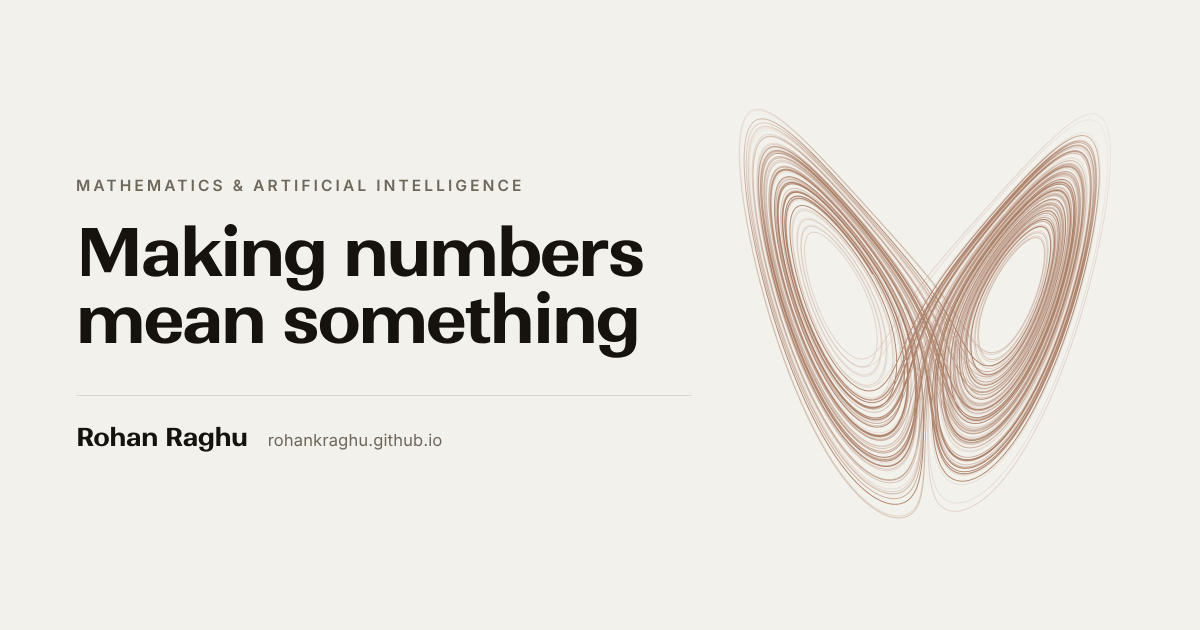
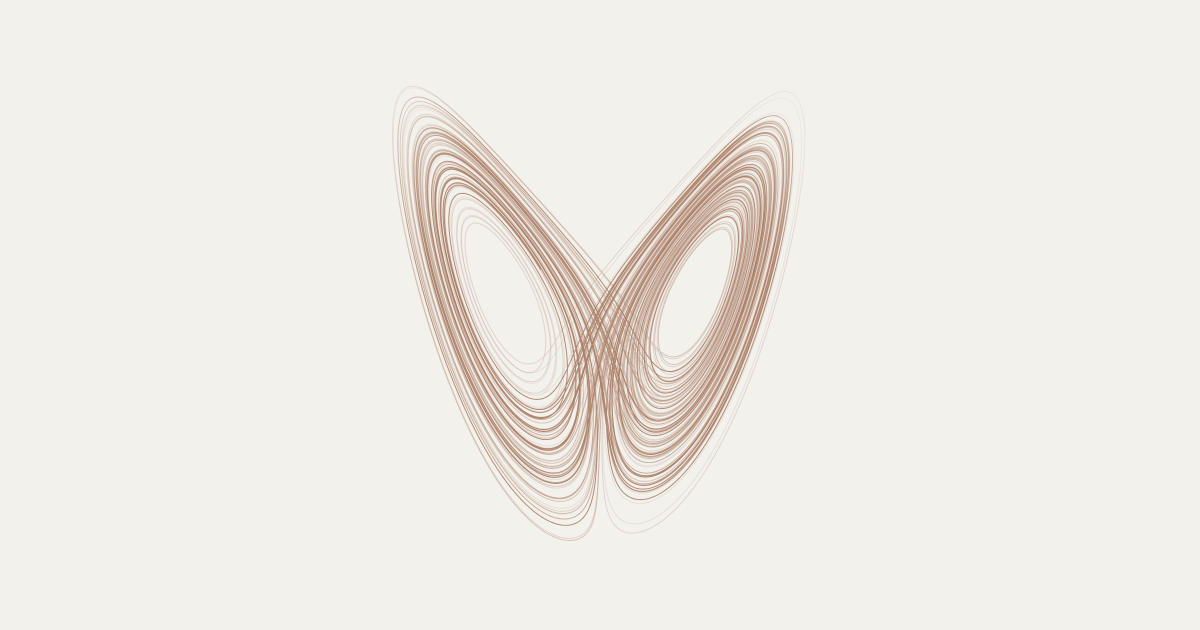
Make the home share card just the Lorenz attractor

Changed region(s): [[0.0617, 0.1508, 0.925, 0.8444], [0.0617, 0.6635, 0.37, 0.7238]]

diff --git a/assets/og-src/home.html b/assets/og-src/home.html
@@ -5,37 +5,15 @@
 <style>
 *{margin:0;padding:0;box-sizing:border-box}
 html,body{width:1200px;height:630px}
-body{
-  background:#F3F1EC;color:#16130F;overflow:hidden;
-  font-family:Inter,Helvetica,Arial,sans-serif;
-  display:grid;grid-template-columns:1fr 396px;align-items:center;
-  gap:36px;padding:0 76px;
-}
-.eyebrow{font-size:15.5px;font-weight:600;letter-spacing:.2em;text-transform:uppercase;color:#6E675C}
-h1{
-  font-family:"Ranade","Helvetica Neue",Helvetica,Arial,sans-serif;font-weight:700;font-size:66px;line-height:1.02;white-space:nowrap;
-  letter-spacing:-.035em;margin-top:24px;
-}
-h1 span{color:#8A4B2A}
-.foot{
-  display:flex;align-items:baseline;gap:20px;
-  margin-top:42px;padding-top:24px;border-top:1px solid #DCD6CB;
-}
-.name{font-family:"Ranade","Helvetica Neue",Helvetica,Arial,sans-serif;font-weight:700;font-size:25px;letter-spacing:-.02em}
-.url{font-size:16.5px;color:#6E675C;letter-spacing:.01em}
-.art{position:relative;height:520px}
+body{background:#F3F1EC;overflow:hidden;display:grid;place-items:center}
+.art{position:relative;width:440px;height:578px}
 canvas{
   position:absolute;inset:0;width:100%;height:100%;opacity:.7;
   -webkit-mask-image:radial-gradient(ellipse 70% 72% at 50% 50%,#000 58%,transparent 100%);
           mask-image:radial-gradient(ellipse 70% 72% at 50% 50%,#000 58%,transparent 100%);
 }
 </style></head><body>
-<div>
-  <div class="eyebrow">Mathematics &amp; artificial intelligence</div>
-  <h1>Making numbers<br>mean something</h1>
-  <div class="foot"><span class="name">Rohan Raghu</span><span class="url">rohankraghu.github.io</span></div>
-</div>
-<div class="art"><canvas id="lz" width="792" height="1040"></canvas></div>
+<div class="art"><canvas id="lz" width="880" height="1156"></canvas></div>
 <script>
 (function(){
   var c=document.getElementById('lz'),x=c.getContext('2d');

diff --git a/index.html b/index.html
@@ -12,7 +12,7 @@
 <meta property="og:image" content="https://rohankraghu.github.io/assets/og.png">
 <meta property="og:image:width" content="1200">
 <meta property="og:image:height" content="630">
-<meta property="og:image:alt" content="Making numbers mean something. Rohan Raghu, rohankraghu.github.io.">
+<meta property="og:image:alt" content="The Lorenz attractor, drawn in rust on a cream background.">
 <meta name="twitter:card" content="summary_large_image">
 <meta name="twitter:image" content="https://rohankraghu.github.io/assets/og.png">
 <meta name="theme-color" content="#F3F1EC" media="(prefers-color-scheme:light)">
